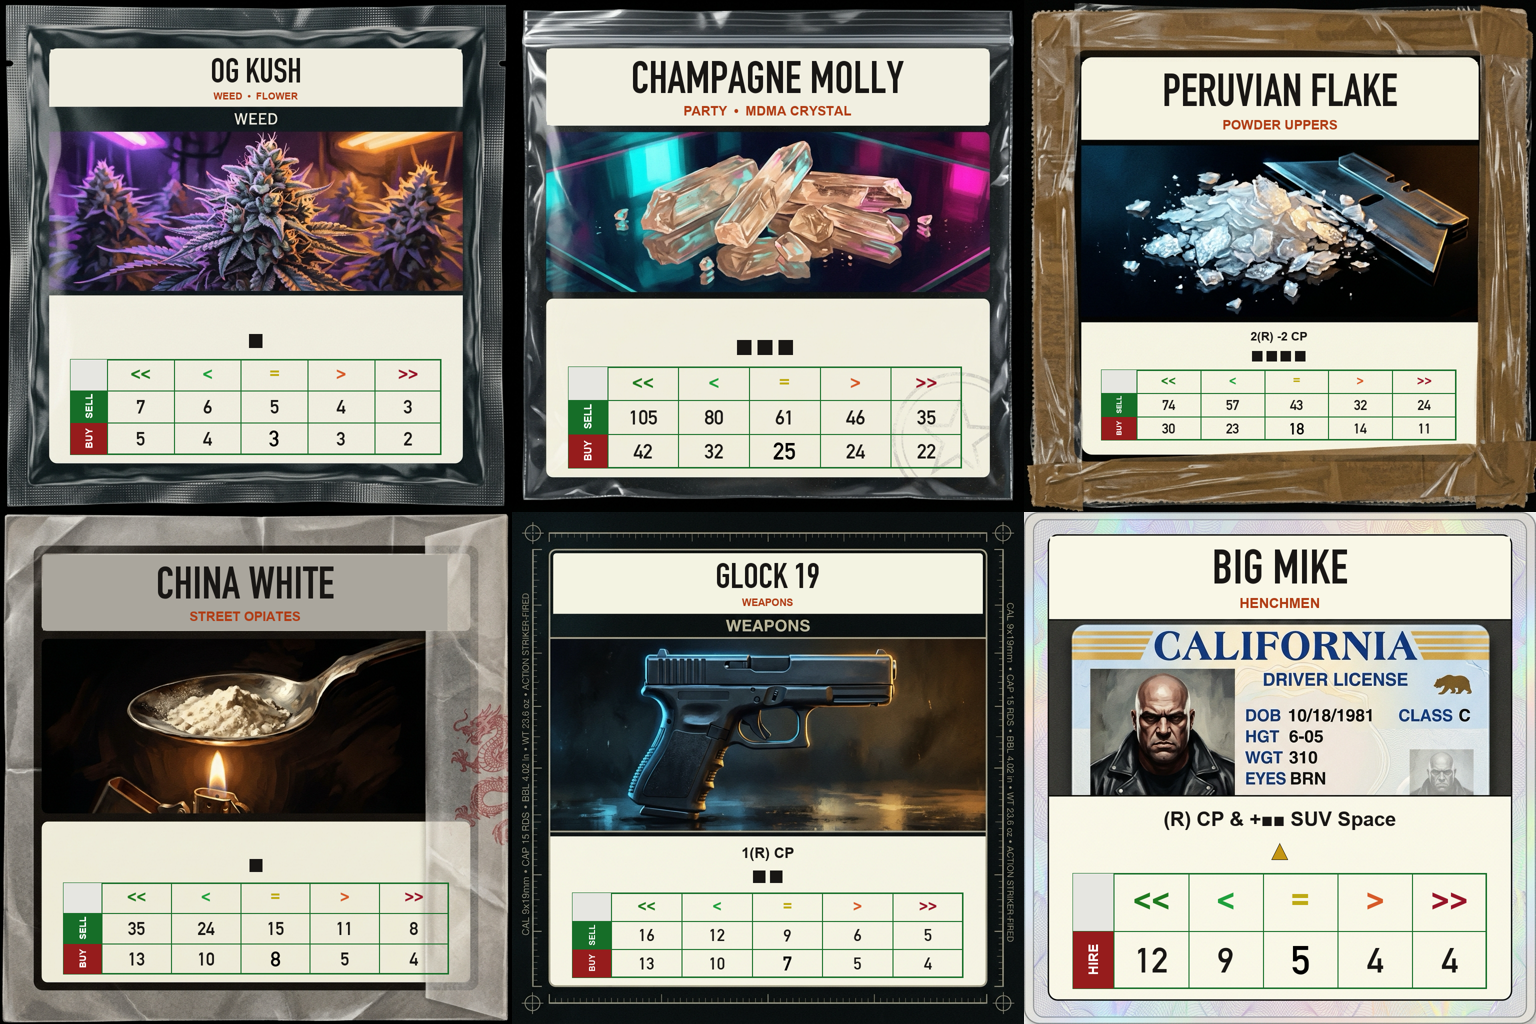
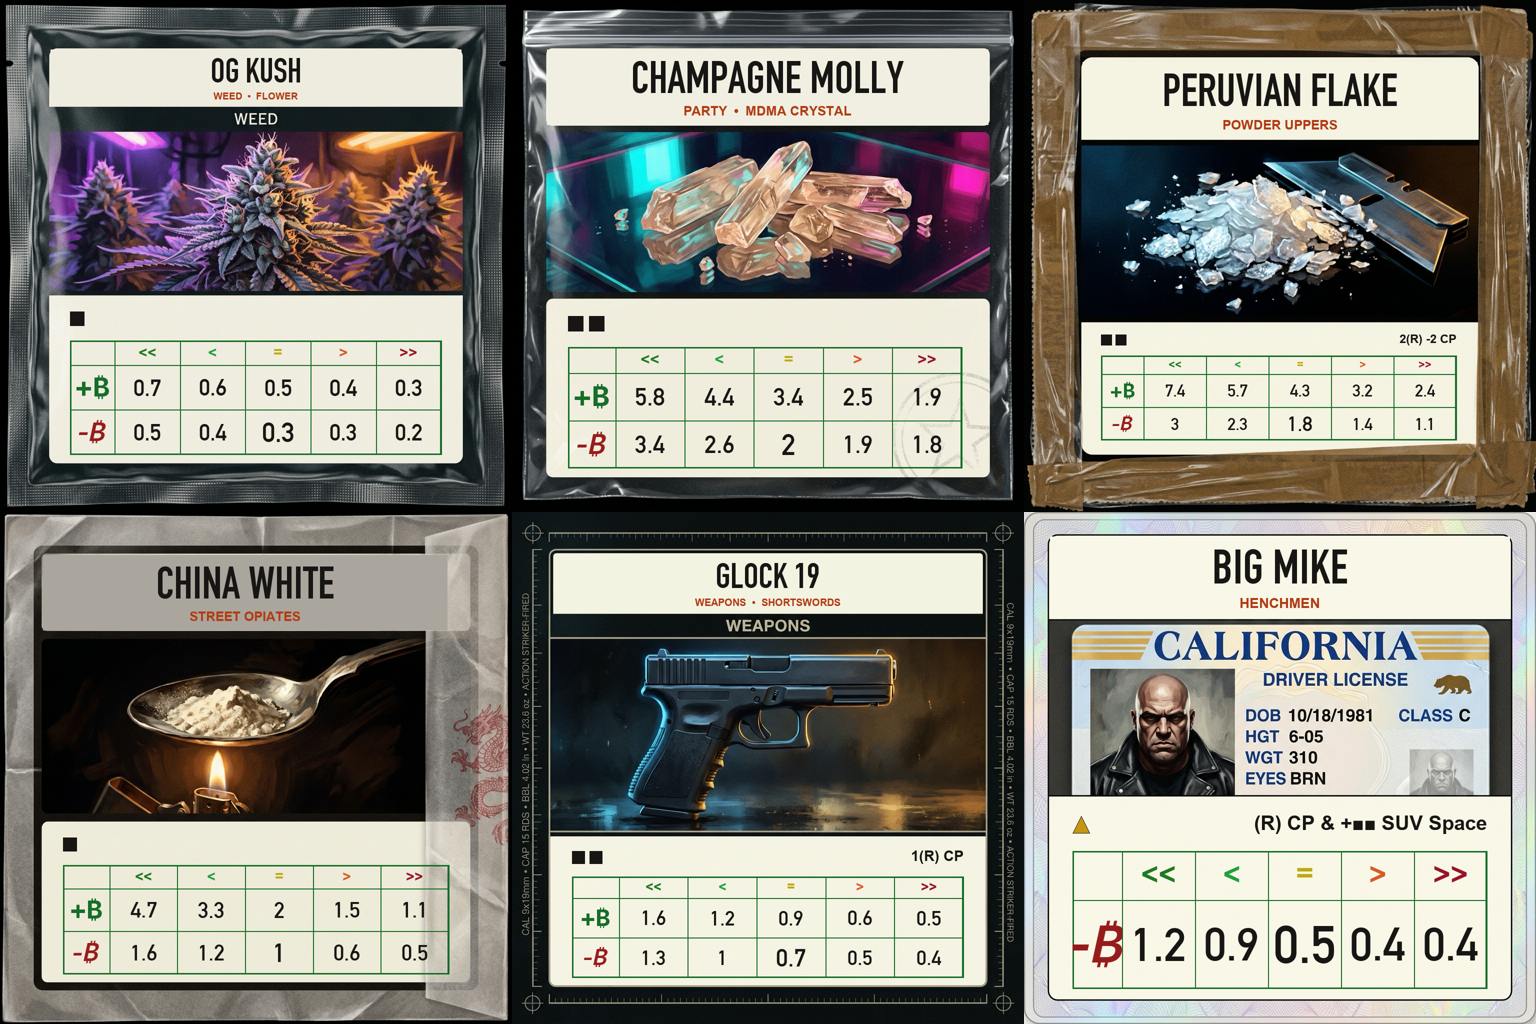
Goods card overlay: single traits line, +₿/-₿ labels, short header; trim weapon text

diff --git a/scripts/render_goods_cards.py b/scripts/render_goods_cards.py
@@ -143,71 +143,99 @@ def draw_title(img, d, zone, card):
     center_text(d, (x0, y0 + h * 0.68, x1, y1 - h * 0.06), cat, cat_font, (176, 60, 20))
 
 
-def draw_symbols(d, cx, cy, size, blocks, guards):
+F_SYM = "/System/Library/Fonts/SFNS.ttf"  # has the Bitcoin glyph
+
+
+def draw_symbols(d, x_left, cy, size, blocks, guards):
+    """SUV space counters, anchored to the left edge of the traits line."""
     items = [("sq", INK)] * blocks + [("tri", (196, 150, 20))] * guards
-    if not items:
-        return
-    gap = size * 0.45
-    total = len(items) * size + (len(items) - 1) * gap
-    x = cx - total / 2
+    gap = size * 0.40
+    x = x_left
     for kind, col in items:
         if kind == "sq":
             d.rectangle((x, cy - size / 2, x + size, cy + size / 2), fill=col)
         else:
             d.polygon([(x, cy + size / 2), (x + size / 2, cy - size / 2), (x + size, cy + size / 2)], fill=col, outline=INK)
         x += size + gap
+    return x
 
 
-def draw_panel(d, zone, card):
+def trait_text(card):
+    """Only mechanically relevant text: CP formulas and special abilities (none = no combat effect)."""
+    if card.get("track") == "Guards":
+        return card.get("combatText")
+    if card.get("combat") or card.get("rarityBonus"):
+        return card.get("combatText")
+    return None
+
+
+def price_label(img, box, kind):
+    """Bold green +₿ (sell) or italic red -₿ (buy/hire), as in the online game."""
+    x0, y0, x1, y1 = box
+    w, h = int(x1 - x0), int(y1 - y0)
+    txt = "+\u20bf" if kind == "sell" else "-\u20bf"
+    col = SELL_GREEN if kind == "sell" else BUY_RED
+    layer = Image.new("RGBA", (w * 2, h), (0, 0, 0, 0))
+    ld = ImageDraw.Draw(layer)
+    f = ImageFont.truetype(F_SYM, int(h * 0.62))
+    try:
+        f.set_variation_by_name("Bold" if kind == "sell" else "Semibold")
+    except Exception:
+        pass
+    center_text(ld, (0, 0, w * 2, h), txt, f, col)
+    if kind == "buy":  # italic via shear
+        layer = layer.transform(layer.size, Image.AFFINE, (1, 0.22, -h * 0.11, 0, 1, 0), resample=Image.BICUBIC)
+    layer = layer.crop((w // 2, 0, w // 2 + w, h))
+    img.paste(layer, (int(x0), int(y0)), layer)
+
+
+def draw_panel(img, d, zone, card):
     x0, y0, x1, y1 = zone
     w, h = x1 - x0, y1 - y0
     pad = w * 0.05
-    combat = card.get("combatText")
-    if card.get("track") == "Guards" and card.get("bonusBlocks"):
-        combat = combat  # already describes the bonus space
-    rows_h = h * 0.16
-    y = y0 + h * 0.04
-    if combat:
-        f = fit_font(F_BOLD, combat, w - 2 * pad, int(rows_h * 0.62))
-        center_text(d, (x0, y, x1, y + rows_h), combat, f, INK)
-    y += rows_h
-    draw_symbols(d, (x0 + x1) / 2, y + rows_h * 0.45, rows_h * 0.5, int(card.get("blocks") or 0), int(card.get("guards") or 0))
-    y += rows_h
+    # Traits line: SUV space (left) + combat/abilities (right)
+    line_h = h * 0.20
+    cy = y0 + h * 0.04 + line_h / 2
+    sym = line_h * 0.42
+    x_after = draw_symbols(d, x0 + pad, cy, sym, int(card.get("blocks") or 0), int(card.get("guards") or 0))
+    tt = trait_text(card)
+    if tt:
+        avail = (x1 - pad) - (x_after + pad)
+        f = fit_font(F_BOLD, tt, avail, int(line_h * 0.50))
+        bb = d.textbbox((0, 0), tt, font=f)
+        d.text((x1 - pad - (bb[2] - bb[0]) - bb[0], cy - (bb[3] - bb[1]) / 2 - bb[1]), tt, font=f, fill=INK)
     # Price table
     tx0, tx1 = x0 + pad, x1 - pad
-    label_w = (tx1 - tx0) * 0.10
-    col_w = (tx1 - tx0 - label_w) / 5
-    ty0 = y + h * 0.02
+    ty0 = y0 + h * 0.04 + line_h + h * 0.03
     ty1 = y1 - h * 0.05
     sell, buy = card.get("sell"), card.get("buy")
-    rows = [("hdr", None)] + ([("SELL", sell)] if sell else []) + [("HIRE" if card.get("track") == "Guards" else "BUY", buy)]
-    rh = (ty1 - ty0) / len(rows)
+    rows = ([("sell", sell)] if sell else []) + [("buy", buy)]
+    hdr_ratio = 0.55
+    unit = (ty1 - ty0) / (len(rows) + hdr_ratio)
+    hdr_h = unit * hdr_ratio
+    label_w = (tx1 - tx0) * 0.12
+    col_w = (tx1 - tx0 - label_w) / 5
     d.rectangle((tx0, ty0, tx1, ty1), outline=SELL_GREEN, width=3)
-    for ri, (lbl, vals) in enumerate(rows):
-        ry0 = ty0 + ri * rh
+    # header
+    for ci in range(5):
+        cx0 = tx0 + label_w + ci * col_w
+        f = ImageFont.truetype(F_BOLD, int(hdr_h * 0.62))
+        center_text(d, (cx0, ty0, cx0 + col_w, ty0 + hdr_h), SCARCITY[ci], f, SCARCITY_COLORS[ci])
+    d.line((tx0, ty0 + hdr_h, tx1, ty0 + hdr_h), fill=SELL_GREEN, width=2)
+    for ri, (kind, vals) in enumerate(rows):
+        ry0 = ty0 + hdr_h + ri * unit
         if ri:
             d.line((tx0, ry0, tx1, ry0), fill=SELL_GREEN, width=2)
-        # label column
-        lab_col = SELL_GREEN if lbl == "SELL" else (BUY_RED if lbl in ("BUY", "HIRE") else (230, 230, 225))
-        d.rectangle((tx0 + 1, ry0 + 1, tx0 + label_w, ry0 + rh - 1), fill=lab_col)
-        if lbl != "hdr":
-            lf = ImageFont.truetype(F_BOLD, max(10, int(min(label_w * 0.32, rh * 0.30))))
-            txt = Image.new("RGBA", (int(rh), int(label_w)), (0, 0, 0, 0))
-            td = ImageDraw.Draw(txt)
-            center_text(td, (0, 0, int(rh), int(label_w)), lbl, lf, (255, 255, 255))
-            d._image.paste(txt.rotate(90, expand=True), (int(tx0 + 1), int(ry0)), txt.rotate(90, expand=True))
+        price_label(img, (tx0, ry0, tx0 + label_w, ry0 + unit), kind)
         for ci in range(5):
             cx0 = tx0 + label_w + ci * col_w
-            d.line((cx0, ty0, cx0, ty1), fill=SELL_GREEN, width=2)
-            box = (cx0, ry0, cx0 + col_w, ry0 + rh)
-            if lbl == "hdr":
-                f = ImageFont.truetype(F_BOLD, int(rh * 0.55))
-                center_text(d, box, SCARCITY[ci], f, SCARCITY_COLORS[ci])
-            else:
-                v = btc(vals[ci])
-                bold = lbl in ("BUY", "HIRE") and ci == 2
-                f = fit_font(F_NUM, v, col_w * 0.86, int(rh * (0.70 if bold else 0.60)))
-                center_text(d, box, v, f, INK if not bold else (0, 0, 0))
+            v = btc(vals[ci])
+            bold = kind == "buy" and ci == 2
+            f = fit_font(F_NUM, v, col_w * 0.86, int(unit * (0.62 if bold else 0.52)))
+            center_text(d, (cx0, ry0, cx0 + col_w, ry0 + unit), v, f, INK)
+    for ci in range(6):
+        cx = tx0 + label_w + ci * col_w
+        d.line((cx, ty0, cx, ty1), fill=SELL_GREEN, width=2)
 
 
 def render(card, art, out):
@@ -215,7 +243,7 @@ def render(card, art, out):
     title_zone, panel_zone = find_zones(img)
     d = ImageDraw.Draw(img)
     draw_title(img, d, title_zone, card)
-    draw_panel(d, panel_zone, card)
+    draw_panel(img, d, panel_zone, card)
     img.save(out)
     return title_zone, panel_zone
 
